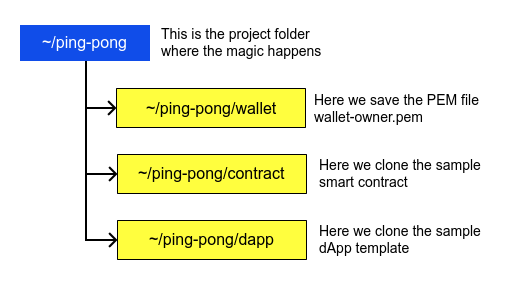
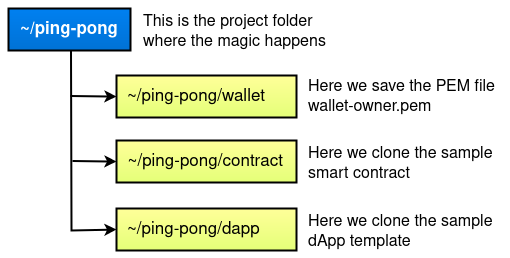
Updated stackoverflow URLs from elrond to multiversx tag, corrected grammar, improved images for ping-pong app
imprv

diff --git a/docs/developers/data/multi-values.md b/docs/developers/data/multi-values.md
@@ -8,7 +8,7 @@ title: Multi-Values
 
 To recap, we have discussed about data being represented either in a:
 - nested encoding, as part of the byte representation of a larger object;
-- top encoding, the full byte represention of an object.
+- top encoding, the full byte representation of an object.
 
 But even the top encoding only refers to a _single_ object, being represented as a _single_ array of bytes. This encoding, no matter how simple or complex, is the representation for a _single_ argument, result, log topic, log event, NFT attribute, etc.
 
@@ -80,7 +80,7 @@ These are the common multi-values provided by the framework:
     - Defined as `MultiValueN<T1, T2, ..., TN>`, where N is a number between 2 and 16, and `T1`, `T2`, ..., `TN` can be any serializable types, either single or multi-value; e.g. `MultiValue3<BigUint, ManagedBuffer, u32>`.
     - It doesn't make much sense to use them as arguments on their own (it is easier and equivalent to just have separate named arguments), but they do have the following uses:
         - They can be embedded in a regular var-arg to obtain groups of arguments. For example `MultiValueVec<MultiValue3<BigUint, BigUint>>` defines pairs of numbers. There is no more need to check in code that an even number of arguments was passed, the deserializer resolves this on its own.
-        - Rust does not allow returing more than one result, but by returning a multi-value tuple we can have an endpoint return several values, of different types.
+        - Rust does not allow returning more than one result, but by returning a multi-value tuple we can have an endpoint return several values, of different types.
 - Optional arguments.
     - Defined as `OptionalValue<T>`, where `T` can be any serializable type, either single or multi-value.
     - At most one argument will be consumed. For this reason it sometimes makes sense to have several optional arguments one after the other, or optional arguments followed by var-args.
@@ -91,7 +91,7 @@ These are the common multi-values provided by the framework:
     - Always takes a number argument first, which represents how many arguments follow. Then it consumes exactly that many arguments.
     - Can be followed by other arguments, single or multi-value.
 - Async call result.
-    - Asynchronous call callbacks also need to know whether or not the call failed, so they have a special format for trasmitting arguments. The first argument is always the error code. If the error code is `0`, then the call result follows. Otherwise, we get one additional argument, which is the error message. To easily deserialize this, we use a special type.
+    - Asynchronous call callbacks also need to know whether or not the call failed, so they have a special format for transmitting arguments. The first argument is always the error code. If the error code is `0`, then the call result follows. Otherwise, we get one additional argument, which is the error message. To easily deserialize this, we use a special type.
     - Defined as `ManagedAsyncCallResult<T>`.
     - There is also an unmanaged version, `AsyncCallResult<T>`, but it is no longer used nowadays.
     - They are both enums, the managed part only refers to the error message.
@@ -184,7 +184,7 @@ In the first case, we encoded `None` as an empty byte array (encoding it as `0x0
 In the second case, the last argument is omitted altogether.
 :::
 
-We also want to point out that the multi-value implementation is more efficient in terms of gas. It is more easier for the smart contract to count the number of arguments and top-decode, than parse a composite type, like `Option`.
+We also want to point out that the multi-value implementation is more efficient in terms of gas. It is easier for the smart contract to count the number of arguments and top-decode, than parse a composite type, like `Option`.
 
 [comment]: # (mx-context-auto)
 

diff --git a/docs/developers/meta/sc-meta-cli.md b/docs/developers/meta/sc-meta-cli.md
@@ -51,7 +51,7 @@ cargo run build
 ```
 :::
 
-Paramameters:
+Parameters:
 - `--path`
     - Target directory where to call all contract meta crates.
     - _default_: current directory.
@@ -77,7 +77,7 @@ As an example, below is the output of calling it in the example contract folder 
 
 ![sc-meta info screenshot](/developers/sc-meta/sc-meta-info.png "Result of calling sc-meta info in the example contract folder in the framework")
 
-Paramameters:
+Parameters:
 - `--path`
     - Target directory where to call all contract meta crates.
     - _default_: current directory.
@@ -97,14 +97,14 @@ The oldest version currently supported is `0.28.0`. Any older than that, and the
 It is especially important when upgrading from `0.38` to `0.39.0`, since a lot of changes happened at that point.
 
 :::tip
-For projects with multiple contract crates, we recommend upgrading all of them at once. The upgrade algorithm goes step by step, version after version. For some of the major versions, it also checks that the project compiles before moving on. This is to give developers the chance to fix issues manually, if necessary, and not have those issues pile up. If there are local depdencies between contracts, the upgrader will not be able to do the check unless all of them are upgraded together.
+For projects with multiple contract crates, we recommend upgrading all of them at once. The upgrade algorithm goes step by step, version after version. For some of the major versions, it also checks that the project compiles before moving on. This is to give developers the chance to fix issues manually, if necessary, and not have those issues pile up. If there are local dependencies between contracts, the upgrader will not be able to do the check unless all of them are upgraded together.
 :::
 
 :::caution
 Generally, we strongly recommend to ensure code versioning or at least a backup of the contract code to avoid the impossibility of reverting permanent changes. This automatic code altering process involved in using `sc-meta upgrade` highly raises this recommendation.
 :::
 
-Paramameters:
+Parameters:
 - `--path`
     - Target directory where to call all contract meta crates.
     - _default_: current directory.
@@ -155,7 +155,7 @@ Example output (abridged):
 }
 ```
 
-Paramameters:
+Parameters:
 - `--path`
     - Target directory where to call all contract meta crates.
     - _default_: current directory.
@@ -171,14 +171,14 @@ Paramameters:
 
 Creates a new smart contract project from a standard template.
 
-The tool will replace all necessary names in the project, based on the the project name given by the user. These include:
+The tool will replace all necessary names in the project, based on the project name given by the user. These include:
 - the crate name,
 - the contract trait name,
 - the file name of the main source file.
 
-Paramameters:
+Parameters:
 - `--template`
-    - The contract template to clone. Available options can be retrieve by using [this](/developers/meta/sc-meta-cli#calling-templates)
+    - The contract template to clone. Available options can be retrieved by using [this](/developers/meta/sc-meta-cli#calling-templates)
     - Required.
 - `--name`
     - The new name the contract is to receive.
@@ -204,7 +204,7 @@ empty
 adder
 ```
 
-Paramameter:
+Parameter:
 - `--tag`
     -  The framework version on which the contracts should be created.
     - _default_: The latest released version.
@@ -228,7 +228,7 @@ These integration tests come in two flavors:
 
 Read more about JSON scenarios in smart contract projects [here](/developers/testing/scenario/running-scenarios).
 
-Paramameters:
+Parameters:
 - `--path`
     - Target directory where to call all contract meta crates.
     - _default_: current directory.

diff --git a/docs/developers/tutorials/your-first-dapp.md b/docs/developers/tutorials/your-first-dapp.md
@@ -45,7 +45,7 @@ Maybe you noticed the default amount for a deposit is **1 xEGLD** and not 1 EGLD
 
 For the web app we'll have two pages:
 
-- The _Sign in_ page - here we can authenticate with ledger, web wallet or with Maiar Wallet
+- The _Sign in_ page - here we can authenticate with ledger, web wallet or xPortal
 - The _Dashboard_ page - here we can either ping or pong, if we already deposited, then we will see a countdown timer until the time interval clears out.
 
 [comment]: # (mx-context-auto)
@@ -53,7 +53,7 @@ For the web app we'll have two pages:
 ### **Blockchain Layer (The Backend)**
 
 We will create a smart contract that can handle the deposit (`ping`), claim (`pong`) and status actions (`did_user_ping`, `get_time_to_pong`).
-Let's say that, for now, this smart contract plays the role of an API in a dApp. Also this is where our business logic resides.
+Let's say that, for now, this smart contract plays the role of an API in a dApp. Also, this is where our business logic resides.
 
 The MultiversX _devnet_ is a public test network maintained by our community where any developer can test their smart contracts and dApps in a real world environment.
 
@@ -61,7 +61,7 @@ The MultiversX _devnet_ is a public test network maintained by our community whe
 
 ## **Set up the environment**
 
-Let's set up the evironment for getting your first dapp up and running.
+Let's set up the environment for getting your first dapp up and running.
 
 [comment]: # (mx-context-auto)
 
@@ -309,7 +309,7 @@ You can reuse the same owner's wallet if you want to, or create a new one, follo
 
 After signing in, we'll see the dashboard where we can see the **Ping** button.
 
-Click the Ping button and you'll be redirected to the authentication page on the web wallet, maiar wallet or your authentication device.
+Click the Ping button and you'll be redirected to the authentication page on the web wallet, xPortal or your authentication device.
 A new transaction will be created and you'll be asked to confirm it. This transaction transfers balance from your wallet to the smart contract address. Those funds will be locked for the specified period of time. Pay attention to the data field, where we call the smart contract function `ping`.
 After you confirm the transaction, a success message will appear and the funds are locked.
 
@@ -329,6 +329,6 @@ The transaction will trigger a success message and the funds will be returned to
 ## **Where to go next?**
 
 The purpose of this guide is to provide a starting point for you to discover the MultiversX technology capabilities and devkit. Keep reading the next docs to dive in deeper.
-We welcome your questions and inquiries on Stack Overflow: [https://stackoverflow.com/questions/tagged/elrond](https://stackoverflow.com/questions/tagged/elrond).
+We welcome your questions and inquiries on Stack Overflow: [https://stackoverflow.com/questions/tagged/multiversx](https://stackoverflow.com/questions/tagged/multiversx).
 
 Break down this guide and learn more about how to extend the smart contract, the wallet and the MultiversX tools. [https://docs.multiversx.com](/)

diff --git a/docs/sdk-and-tools/sdk-py/mxpy-cli.md b/docs/sdk-and-tools/sdk-py/mxpy-cli.md
@@ -40,7 +40,7 @@ pipx upgrade multiversx-sdk-cli
 
 This method should _only_ be used if you installed **mxpy** as described [here](installing-mxpy.md#install-using-mxpy-up).
 
-If you are using a older version of `mxpy` you can simply upgrade to a newer version by typing the following commands in a terminal:
+If you are using an older version of `mxpy` you can simply upgrade to a newer version by typing the following commands in a terminal:
 
 ```sh
 wget -O mxpy-up.py https://raw.githubusercontent.com/multiversx/mx-sdk-py-cli/main/mxpy-up.py && python3 mxpy-up.py
@@ -55,7 +55,7 @@ Since you've had a previous `mxpy` version installed, you probably have already 
 
 Using `mxpy` you can either check if a dependency is installed or install a new dependency.
 
-To check if a dependecy is installed you can use:
+To check if a dependency is installed you can use:
 ```sh
 mxpy deps check <dependecy-name>
 ```
@@ -137,7 +137,7 @@ It's mandatory that you keep a backup of your secret phrase somewhere safe.
 
 Let's convert the previously created `keystore-mnemonic` to a `PEM` wallet. We discourage the use of PEM wallets for storing cryptocurrencies due to their lower security level. However, they prove to be highly convenient and user-friendly for application testing purposes.
 
-To convert the wallet we type the follwing command:
+To convert the wallet we type the following command:
 ```sh
 mxpy wallet convert --infile test_wallet.json --in-format keystore-mnemonic --outfile converted_wallet.pem --out-format pem
 ```
@@ -250,7 +250,7 @@ mxpy contract query erd1qqqqqqqqqqqqqpgq3zrpqj3sulnc9xq95sljetxhf9s07pqtd8ssfkxj
     --function getSum
 ```
 
-We see that `mxpy` returns our value as a base64 string, as a hex number and as a integer. Indee, we see the expected value.
+We see that `mxpy` returns our value as a base64 string, as a hex number and as an integer. Indeed, we see the expected value.
 
 [comment]: # (mx-context-auto)
 
@@ -353,7 +353,7 @@ If your address is guarded, you'll have to provide some additional arguments bec
 
 The first extra argument we'll need is the `--guardian` argument. This specifies the guardian address of our address. Then, if our account is guarded by a service like our trusted co-signer service we have to provide the `--guardian-service-url` which specifies where the transaction is sent to be co-signed.
 
-Keep in mind that **mxpy** always calls the `/sign-transaction` endpoint of the `--guardian-service-url` you have provided. Another argment we'll need is `--guardian-2fa-code` which is the code generated by an external authenticator.
+Keep in mind that **mxpy** always calls the `/sign-transaction` endpoint of the `--guardian-service-url` you have provided. Another argument we'll need is `--guardian-2fa-code` which is the code generated by an external authenticator.
 
 Each guarded transaction needs an additional `50000` gas for the `gasLimit`. The `version` field needs to be set to `2`. The `options` field needs to have the second least significant bit set to "1".
 

diff --git a/docs/developers/developer-reference/sc-payments.md b/docs/developers/developer-reference/sc-payments.md
@@ -31,7 +31,7 @@ There are two ways in which a smart contract can receive payments:
 
 ### Receiving payments directly
 
-Sending EGLD and ESDT tokens directly to accounts works the same way for EOAs (extrernally owned accounts) as for smart contracts: the tokens are transferred from one account to the other without firing up the VM.
+Sending EGLD and ESDT tokens directly to accounts works the same way for EOAs (externally owned accounts) as for smart contracts: the tokens are transferred from one account to the other without firing up the VM.
 
 However, not all smart contracts are allowed to receive tokens directly. There is a flag that controls this, called "payable". This flag is part of the [code metadata](/developers/data/code-metadata), and is specified in the transaction that deploys or upgrades the smart contract.
 
@@ -45,7 +45,7 @@ The rationale for this is as follows: the MultiversX blockchain doesn't offer an
 The most common way for contracts to accept payments is by having endpoints annotated with the `#[payable(...)]` annotation.
 
 :::important important
-The "payable" flag in the code metadata only refers to direct transfers. Trasferring tokens via contract endpoint calls is not affected by it in any way.
+The "payable" flag in the code metadata only refers to direct transfers. Transferring tokens via contract endpoint calls is not affected by it in any way.
 :::
 
 
@@ -76,7 +76,7 @@ It is also possible to hard-code a token identifier in the `payable`, e.g. `#[pa
 :::
 
 Additional restrictions on the incoming tokens can be imposed in the body of the endpoint, by calling the call value API. Most of these functions retrieve data about the received payment, while also stopping execution if the payment is not of the expected type.
-- `self.call_value().egld_value()` retrieves the EGLD value transfered, or zero. Never stops execution.
+- `self.call_value().egld_value()` retrieves the EGLD value transferred, or zero. Never stops execution.
 - `self.call_value().all_esdt_transfers()` retrieves all the ESDT transfers received, or an empty list. Never stops execution.
 - `self.call_value().multi_esdt<N>()` is ideal when we know exactly how many ESDT transfers we expect. It returns an array of `EsdtTokenPayment`. It knows exactly how many transfers to expect based on the return type (it is polymorphic in the length of the array). Will fail execution if the number of ESDT transfers does not match.
 - `self.call_value().single_esdt()` expects a single ESDT transfer, fails otherwise. Will return the received `EsdtTokenPayment`. It is a special case of `multi_esdt`, where `N` is 1.

diff --git a/docs/developers/data/abi.md b/docs/developers/data/abi.md
@@ -120,7 +120,7 @@ Please note that the type names are not necessarily the ones from Rust, we are t
 First off, there are a number of [basic types](/developers/data/simple-values) that are known, and which have a universal representation:
 - Numerical types: `BigUint`, `BigInt`, `u64`, `i32`, etc.
 - Booleans: `bool`.
-- Raw byte arrays are all specified as `bytes`, irrespective of the underlying implementation in the contract. Someone who just interacts with the contract does not care whether the contracts works with `ManagedBuffer`, `Vec<u8>`, or something else, it's all the same to the exterior.
+- Raw byte arrays are all specified as `bytes`, irrespective of the underlying implementation in the contract. Someone who just interacts with the contract does not care whether the contracts work with `ManagedBuffer`, `Vec<u8>`, or something else, it's all the same to the exterior.
 - Text: `utf-8 string`.
 - 32 byte account address: `Address`.
 - ESDT token identifier: `TokenIdentifier`. Encoded the same as `bytes`, but with more specific semantics.
@@ -331,7 +331,7 @@ More examples of this below.
 
 A new field called `esdtAttributes` was added to the ABI file, where developers can find the structs (name, type) exported using the `esdt_attribute` trait annotation. Additionally, each `esdt_attribute` will create a new json file with the name given by the developer (followed by `.esdt-abi`) and containing its exported structs (names, types and descriptions).
 
-The name/ticker is just a way to identify the idea of the token because we do not have the exact identifier or the possibility to create it through this annotation. We only use this annotation as a mark up for a specific ESDT, in order to define its fields' attributes type. It is useful to define ESDT attributes' type beforehand in order to get more specific and overall better results fetching data from other services.
+The name/ticker is just a way to identify the idea of the token because we do not have the exact identifier or the possibility to create it through this annotation. We only use this annotation as a mark-up for a specific ESDT, in order to define its fields' attributes type. It is useful to define ESDT attributes' type beforehand in order to get more specific and overall better results fetching data from other services.
 
 ### Example using basic types
 

diff --git a/docs/developers/developer-reference/rust-testing-framework.md b/docs/developers/developer-reference/rust-testing-framework.md
@@ -17,7 +17,7 @@ The Rust testing framework was developed as an alternative to manually writing s
 
 The only disadvantage is that you need to learn something new! Jokes aside, keep in mind that this whole framework runs in a mocked environment. So while you get powerful testing and debugging tools, you are ultimately running a mock and have no guarantee that the contract will work identically with the current VM version deployed on the mainnet.
 
-This is where the scenario generation part comes into play. The Rust testing framework allows you to generate scenarios with minimal effort, and then run said scenarios with one click through our MultiversX VSCode extension (alteratively, simply run `erdpy contract test`). There will be a bit of manual effort required on the developer's part, but we'll get to that in its specific section.
+This is where the scenario generation part comes into play. The Rust testing framework allows you to generate scenarios with minimal effort, and then run said scenarios with one click through our MultiversX VSCode extension (alternatively, simply run `erdpy contract test`). There will be a bit of manual effort required on the developer's part, but we'll get to that in its specific section.
 
 Please note that scenario generation is more of an experiment rather than a fully fledged implementation, which we might even remove in the future. Still, some examples are provided here if you still wish to attempt it.
 
@@ -151,7 +151,7 @@ Since this is a SC deploy, we call the `init` function. Since the contract works
 let target = BigUint::<DebugApi>::from(2_000u32);
 ```
 
-Keep in mind you can't create managed types outside of the `execute_tx` functions.
+Keep in mind you can't create managed types outside the `execute_tx` functions.
 
 Some observations for the `execute_tx` function:
 
@@ -391,7 +391,7 @@ You've already seen most of the code in this test before already. The only new t
 
 ## Testing a failed funding campaign
 
-This is simimlar to the previous one, but instead we have the users claim instead of the owner after deadline.
+This is similar to the previous one, but instead we have the users claim instead of the owner after deadline.
 
 ```rust
 #[test]

diff --git a/docs/technology/adaptive-state-sharding.md b/docs/technology/adaptive-state-sharding.md
@@ -15,7 +15,7 @@ We emphasize the three main types of sharding: network sharding, transaction sha
 
 **Transaction sharding** handles the way the transactions are mapped to the shards where they will be processed. In an account-based system, the transactions could be assigned to shards based on the sender's address.
 
-**State sharding** is the most challenging approach. In contrast to the previously described sharding mechanisms, where all nodes store the entire state, in the case of state-sharded blockchains each shard maintains only a portion of the state. If the accounts involved in a transaction reside in different shards, executing that transaction will require the state to be updated in both shards and will involve the exchange of messages between the nodes of the two shards. In order to increase resiliency to malicious attacks, the nodes in the shards have to be reshuffled from time to time. However, moving nodes between shards introduces synchronization overheads, that is, the time taken for the newly added nodes to download the latest state from their new shard. Thus, it is imperative that only a subset of all nodes should be redistributed during each epoch, to prevent down times during the synchronization process.
+**State sharding** is the most challenging approach. In contrast to the previously described sharding mechanisms, where all nodes store the entire state, in the case of state-sharded blockchains each shard maintains only a portion of the state. If the accounts involved in a transaction reside in different shards, executing that transaction will require the state to be updated in both shards and will involve the exchange of messages between the nodes of the two shards. In order to increase resiliency to malicious attacks, the nodes in the shards have to be reshuffled from time to time. However, moving nodes between shards introduces synchronization overheads, that is, the time taken for the newly added nodes to download the latest state from their new shard. Thus, it is imperative that only a subset of all nodes should be redistributed during each epoch, to prevent downtimes during the synchronization process.
 
 [comment]: # (mx-context-auto)
 

diff --git a/docs/developers/developer-reference/sc-contract-calls.md b/docs/developers/developer-reference/sc-contract-calls.md
@@ -7,7 +7,7 @@ title: Smart contract calls
 
 ## Introduction
 
-As programmers, we are used to calling functions all the time. Smart contract calls, however, are slightly trickier. Beside code execution, there can also be transfers of EGLD and ESDT tokens involved, gas needs to be specificed, and, finally, there are different flavors of calls.
+As programmers, we are used to calling functions all the time. Smart contract calls, however, are slightly trickier. Beside code execution, there can also be transfers of EGLD and ESDT tokens involved, gas needs to be specified, and, finally, there are different flavors of calls.
 
 Any system for composing and sending these calls needs to be very versatile, to cater to all of the programmers' various needs.
 
@@ -32,7 +32,7 @@ It is the contract that keeps track of the number of arguments, and deserializes
 
 The description of a smart contract's inputs is known as the [ABI](/developers/data/abi), and lives off-chain. In short, the ABI is a collection of endpoint names, with argument names and type descriptions. To be able to effectively call a smart contract, it is useful to know its ABI.
 
-The equivalent of the ABI in the Rust world is a a helper trait, called a __proxy__. All it does is that it provides a typed interface to any smart contract, it takes the typed arguments and it serializes them according to the [MultiversX serialization format](/developers/data/serialization-overview).
+The equivalent of the ABI in the Rust world is a helper trait, called a __proxy__. All it does is that it provides a typed interface to any smart contract, it takes the typed arguments and it serializes them according to the [MultiversX serialization format](/developers/data/serialization-overview).
 
 Let's take this very simple example:
 

diff --git a/docs/validators/staking/unjailing.md b/docs/validators/staking/unjailing.md
@@ -47,7 +47,7 @@ In the "To" field, paste the address of the Staking SmartContract, which also ha
 
 For the "Amount" field, you first need to calculate the amount of EGLD required for unjailing. This is done by multiplying 2.5 EGLD by the _number of nodes_ you want to unjail. For example, if you want to unjail a single node, you need to enter `2.5`. For two nodes, it's `5` and for three nodes it is `7.5`.
 
-Next, expand the "Fee limit" section of the form. You'll see the "Gas limit" field appear. The value that needs to be entered here also depends on the _number of nodes_ you want to unjail. To calculate the "Gas limit" value, mulitply `6000000` (six million gas units) by the number of nodes. For example, if you want to unjail a single node, enter `6000000`. For two nodes, enter `12000000`, for three nodes enter `18000000` and so on. Observe how the "Fee limit" field automatically calculates the cost of this transaction.
+Next, expand the "Fee limit" section of the form. You'll see the "Gas limit" field appear. The value that needs to be entered here also depends on the _number of nodes_ you want to unjail. To calculate the "Gas limit" value, multiply `6000000` (six million gas units) by the number of nodes. For example, if you want to unjail a single node, enter `6000000`. For two nodes, enter `12000000`, for three nodes enter `18000000` and so on. Observe how the "Fee limit" field automatically calculates the cost of this transaction.
 
 [comment]: # (mx-context-auto)
 

diff --git a/docs/developers/testing/scenario/running-scenarios.md b/docs/developers/testing/scenario/running-scenarios.md
@@ -30,7 +30,7 @@ The only standalone tool for running scenarios is `run-scenarios`, part of the V
 The binary is build from [here](https://github.com/multiversx/mx-chain-vm-go/blob/master/cmd/scenariostest/scenariosTest.go).
 Most of the code lies [here](https://github.com/multiversx/mx-chain-vm-go/tree/master/scenarioexec), if you're curious.
 
-To call, simply run `run-scenarios <path>`, where the path can be either a speciific scenario file, or a folder containing scenarios. In the case of a folder, the tool will run all files ending in `*.scen.json`. Results are printed to console.
+To call, simply run `run-scenarios <path>`, where the path can be either a specific scenario file, or a folder containing scenarios. In the case of a folder, the tool will run all files ending in `*.scen.json`. Results are printed to console.
 
 
 [comment]: # (mx-context-auto)
@@ -192,7 +192,7 @@ The tool works as follows:
 
 The test tool can handle multiple contract crates at once. In fact, it will try to update tests for all contracts it can find under a given folder.
 
-For reference, the tool paramters are:
+For reference, the tool parameters are:
 - `--path`
     - Target directory where to call all contract meta crates.
     - _default_: current directory.

diff --git a/docs/developers/overview.md b/docs/developers/overview.md
@@ -5,7 +5,7 @@ title: Developers - Overview
 
 [comment]: # (mx-abstract)
 
-This page serves as the landing destination for builders seeking to construct on the Multiversx platform.
+This page serves as the landing destination for builders seeking to construct on the MultiversX platform.
 
 If anything is missing, or you want to get more support, please refer to Discord or Telegram developers chats: 
 - [Discord: MultiversX Builders](https://discord.gg/multiversxbuilders)
@@ -47,7 +47,7 @@ Below is a list of tutorials for building on MultiversX:
 
 ### SDKs and Tools
 
-One can (programatically) interact with the MultiversX Network by leveraging a set of **SDKs (TypeScript, Go, Python, C++ etc.), tools and APIs**. For more details, please follow:
+One can (programmatically) interact with the MultiversX Network by leveraging a set of **SDKs (TypeScript, Go, Python, C++ etc.), tools and APIs**. For more details, please follow:
 
 | Name                                                              | Description                                                                     |
 |-------------------------------------------------------------------|---------------------------------------------------------------------------------|
